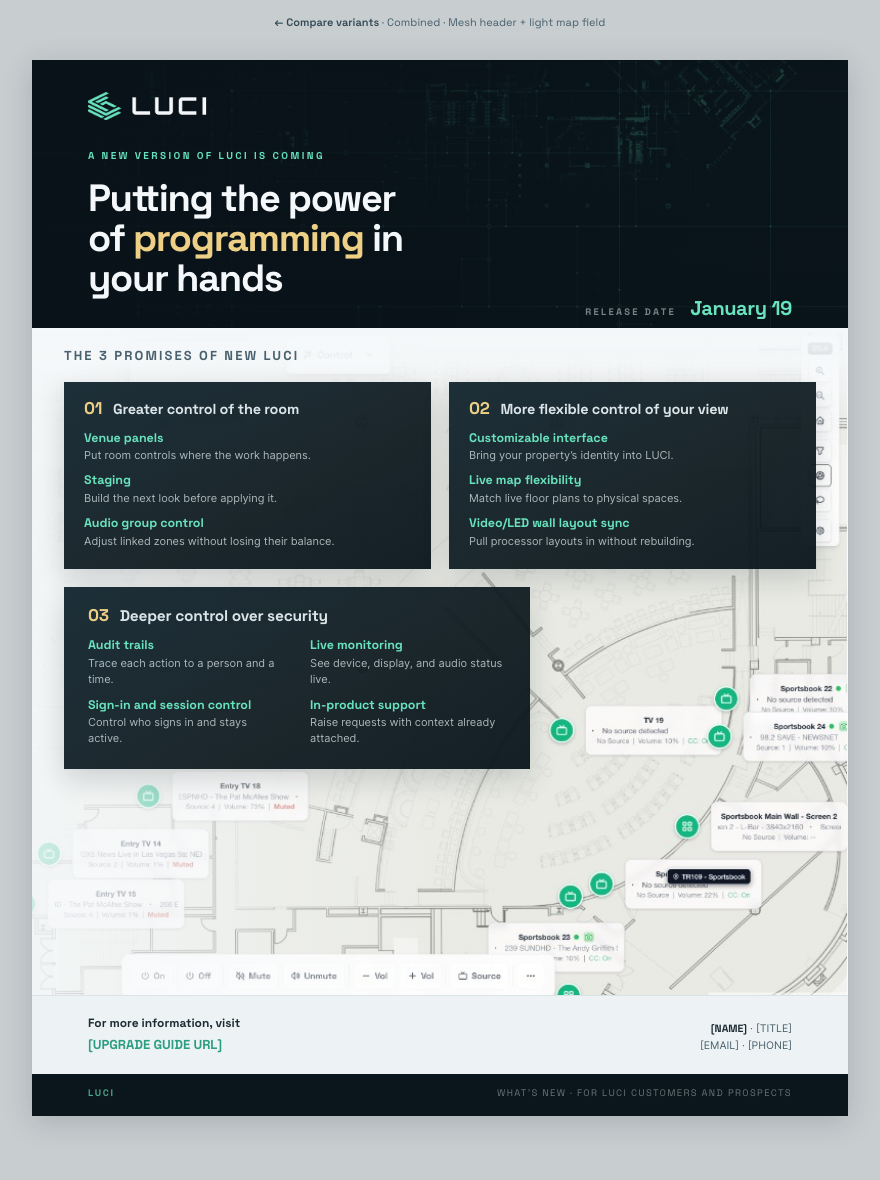
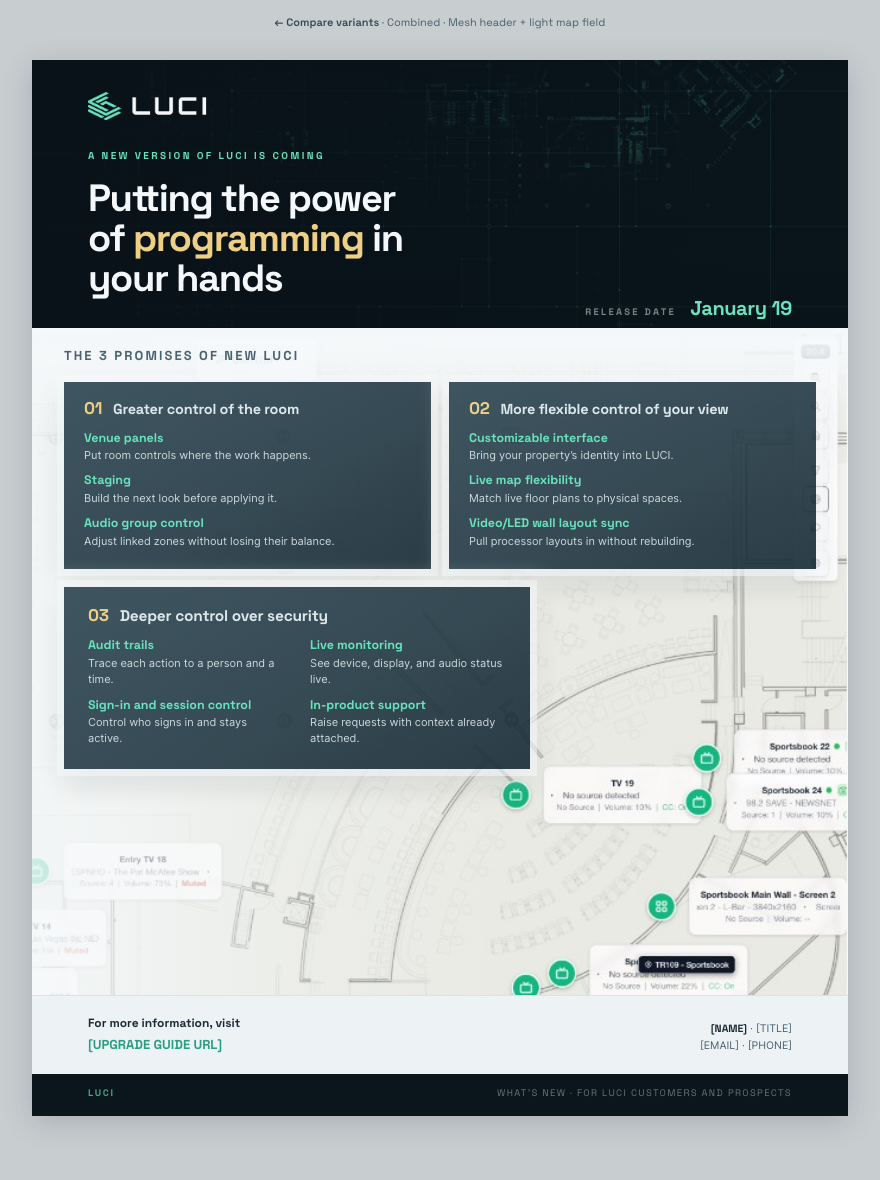
What's New one-pager: lighter plates, softer edges, crop the control bar
Plates move off navy-deep to navy-mid so the masthead stays the darkest
moment on the sheet and the jump from plate to map is smaller. Each plate
now carries a soft paper mat (light ring + diffuse halo) so its edge settles
into the floorplan instead of cutting across it; corners stay sharp.

Field crops the bottom control bar — its solid pill UI read as a different
system and pulled attention off the promises. Feature body text up to 0.84
alpha to clear AA on the lighter plate.

diff --git a/LUCI Systems Design System/ui_kits/sales/new-luci-whats-new-onepager-flow-c.html b/LUCI Systems Design System/ui_kits/sales/new-luci-whats-new-onepager-flow-c.html
@@ -59,8 +59,10 @@ body{font-family:var(--font-body);background:#c8cdd0;color:var(--ink);font-size:
 
 /* ── FIELD — map stays the canvas; promises sit as dark plates ───────── */
 .field{position:relative;flex:1 1 auto;min-height:0;overflow:hidden;background:#F3F4F2}
-.field__shot{position:absolute;inset:0;z-index:0;pointer-events:none;
-  width:100%;height:100%;object-fit:cover;object-position:100% 100%}
+/* Taller than the field and anchored to the top, so the bottom control bar
+   crops off — it reads as a different UI and pulls the eye off the copy. */
+.field__shot{position:absolute;top:0;bottom:auto;left:0;right:0;z-index:0;pointer-events:none;
+  width:100%;height:116%;object-fit:cover;object-position:100% 0%}
 /* Lift the map where the plates sit so the drawing reads under them,
    and keep the lower-right quadrant clean for the live UI. */
 /* Wash the top band so the label sits on clean paper, and fade the left
@@ -84,10 +86,15 @@ body{font-family:var(--font-body);background:#c8cdd0;color:var(--ink);font-size:
 
 /* Same material as the masthead — translucent navy, so the floorplan
    stays visible through the plate instead of being cut out by it. */
+/* Lighter than the masthead so the header stays the darkest moment, and a
+   soft paper mat around each plate so the edge doesn't cut into the map. */
 .p{position:relative;color:var(--off-white);padding:18px 20px 20px;
   background:linear-gradient(152deg,
-    rgba(16,35,45,0.94) 0%, rgba(10,22,28,0.92) 60%, rgba(6,18,26,0.94) 100%);
-  box-shadow:0 10px 26px rgba(10,22,28,0.16)}
+    rgba(49,73,85,0.93) 0%, rgba(38,60,71,0.92) 58%, rgba(28,47,58,0.93) 100%);
+  box-shadow:
+    0 0 0 7px rgba(245,248,250,0.55),
+    0 0 18px 10px rgba(245,248,250,0.35),
+    0 12px 28px rgba(10,22,28,0.14)}
 .p:nth-child(3){grid-column:1 / -1;justify-self:start;width:62%;padding:20px 24px 22px}
 
 .p__head{display:flex;align-items:baseline;gap:11px}
@@ -105,7 +112,7 @@ body{font-family:var(--font-body);background:#c8cdd0;color:var(--ink);font-size:
 .ft dt{display:block;font-family:var(--font);font-weight:700;font-size:12.5px;
   letter-spacing:-0.005em;color:var(--mint);line-height:1.25}
 .ft dd{display:block;margin:2px 0 0;font-family:var(--font-body);font-weight:400;font-size:11px;
-  line-height:1.45;color:rgba(235,245,248,0.70)}
+  line-height:1.45;color:rgba(235,245,248,0.84)}
 .p:nth-child(3) .ft dd{max-width:30ch}
 
 /* ── FOOTER (includes "for more information") ────────────────────────── */
